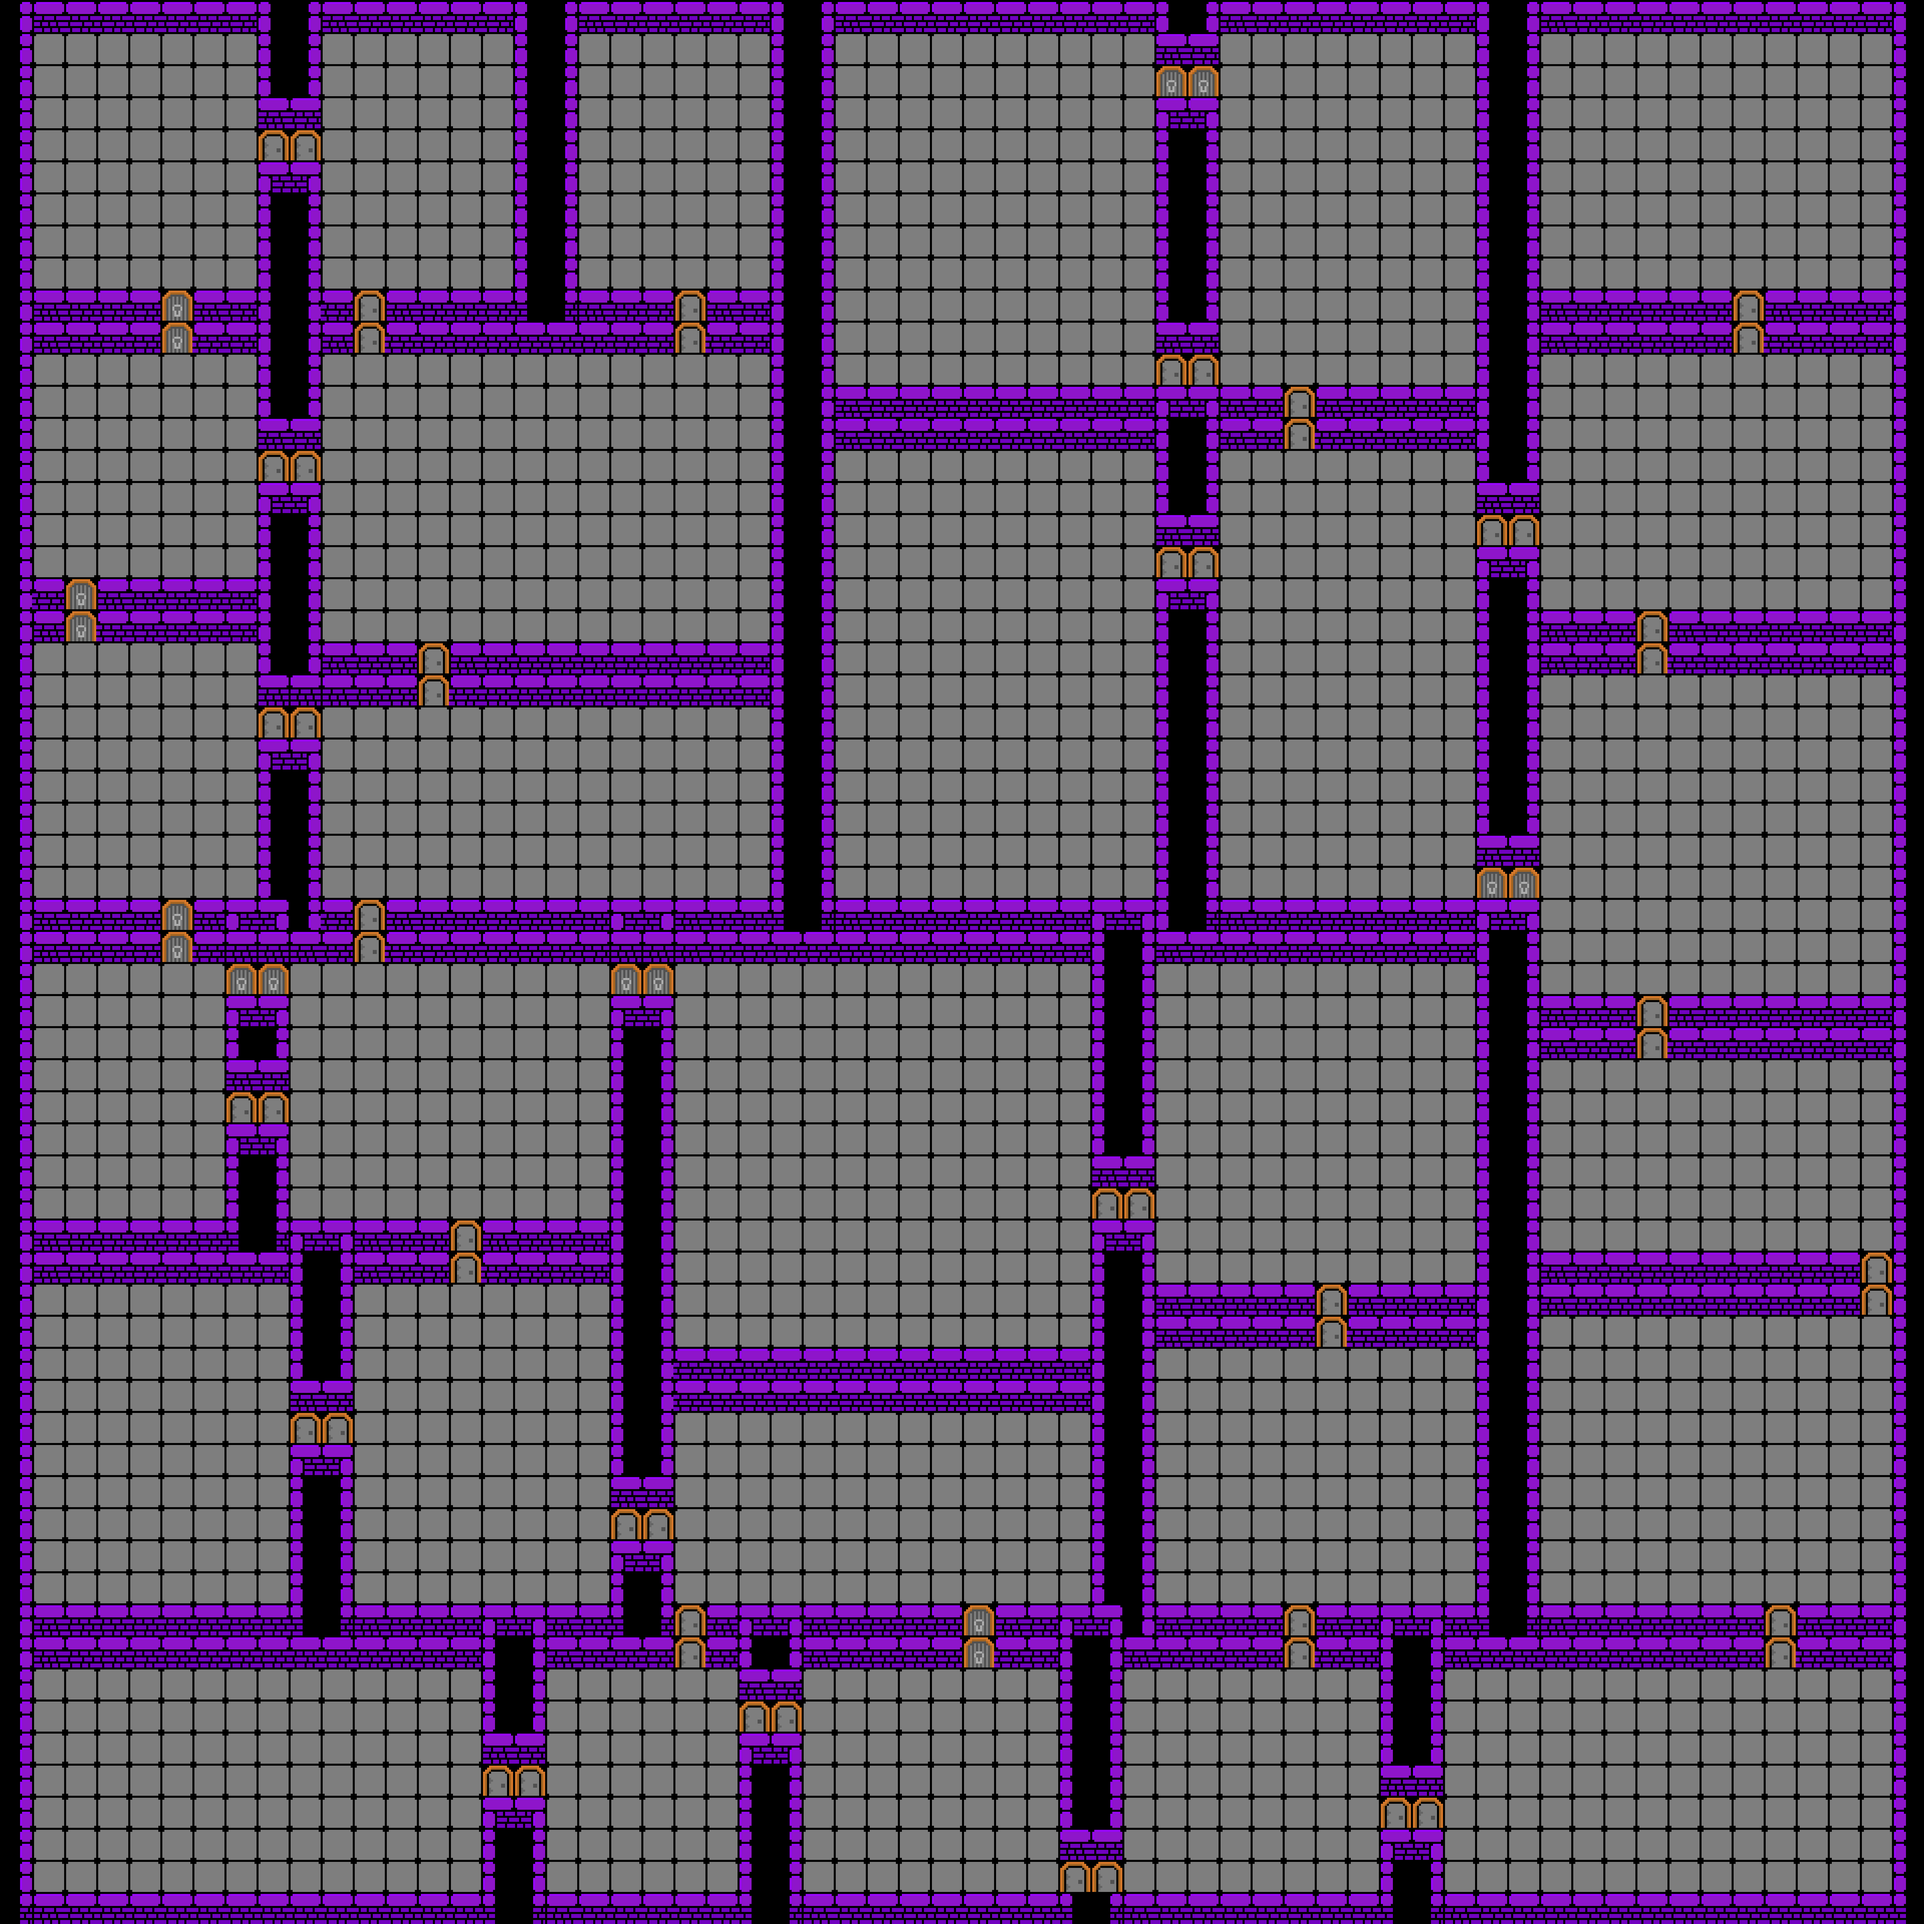
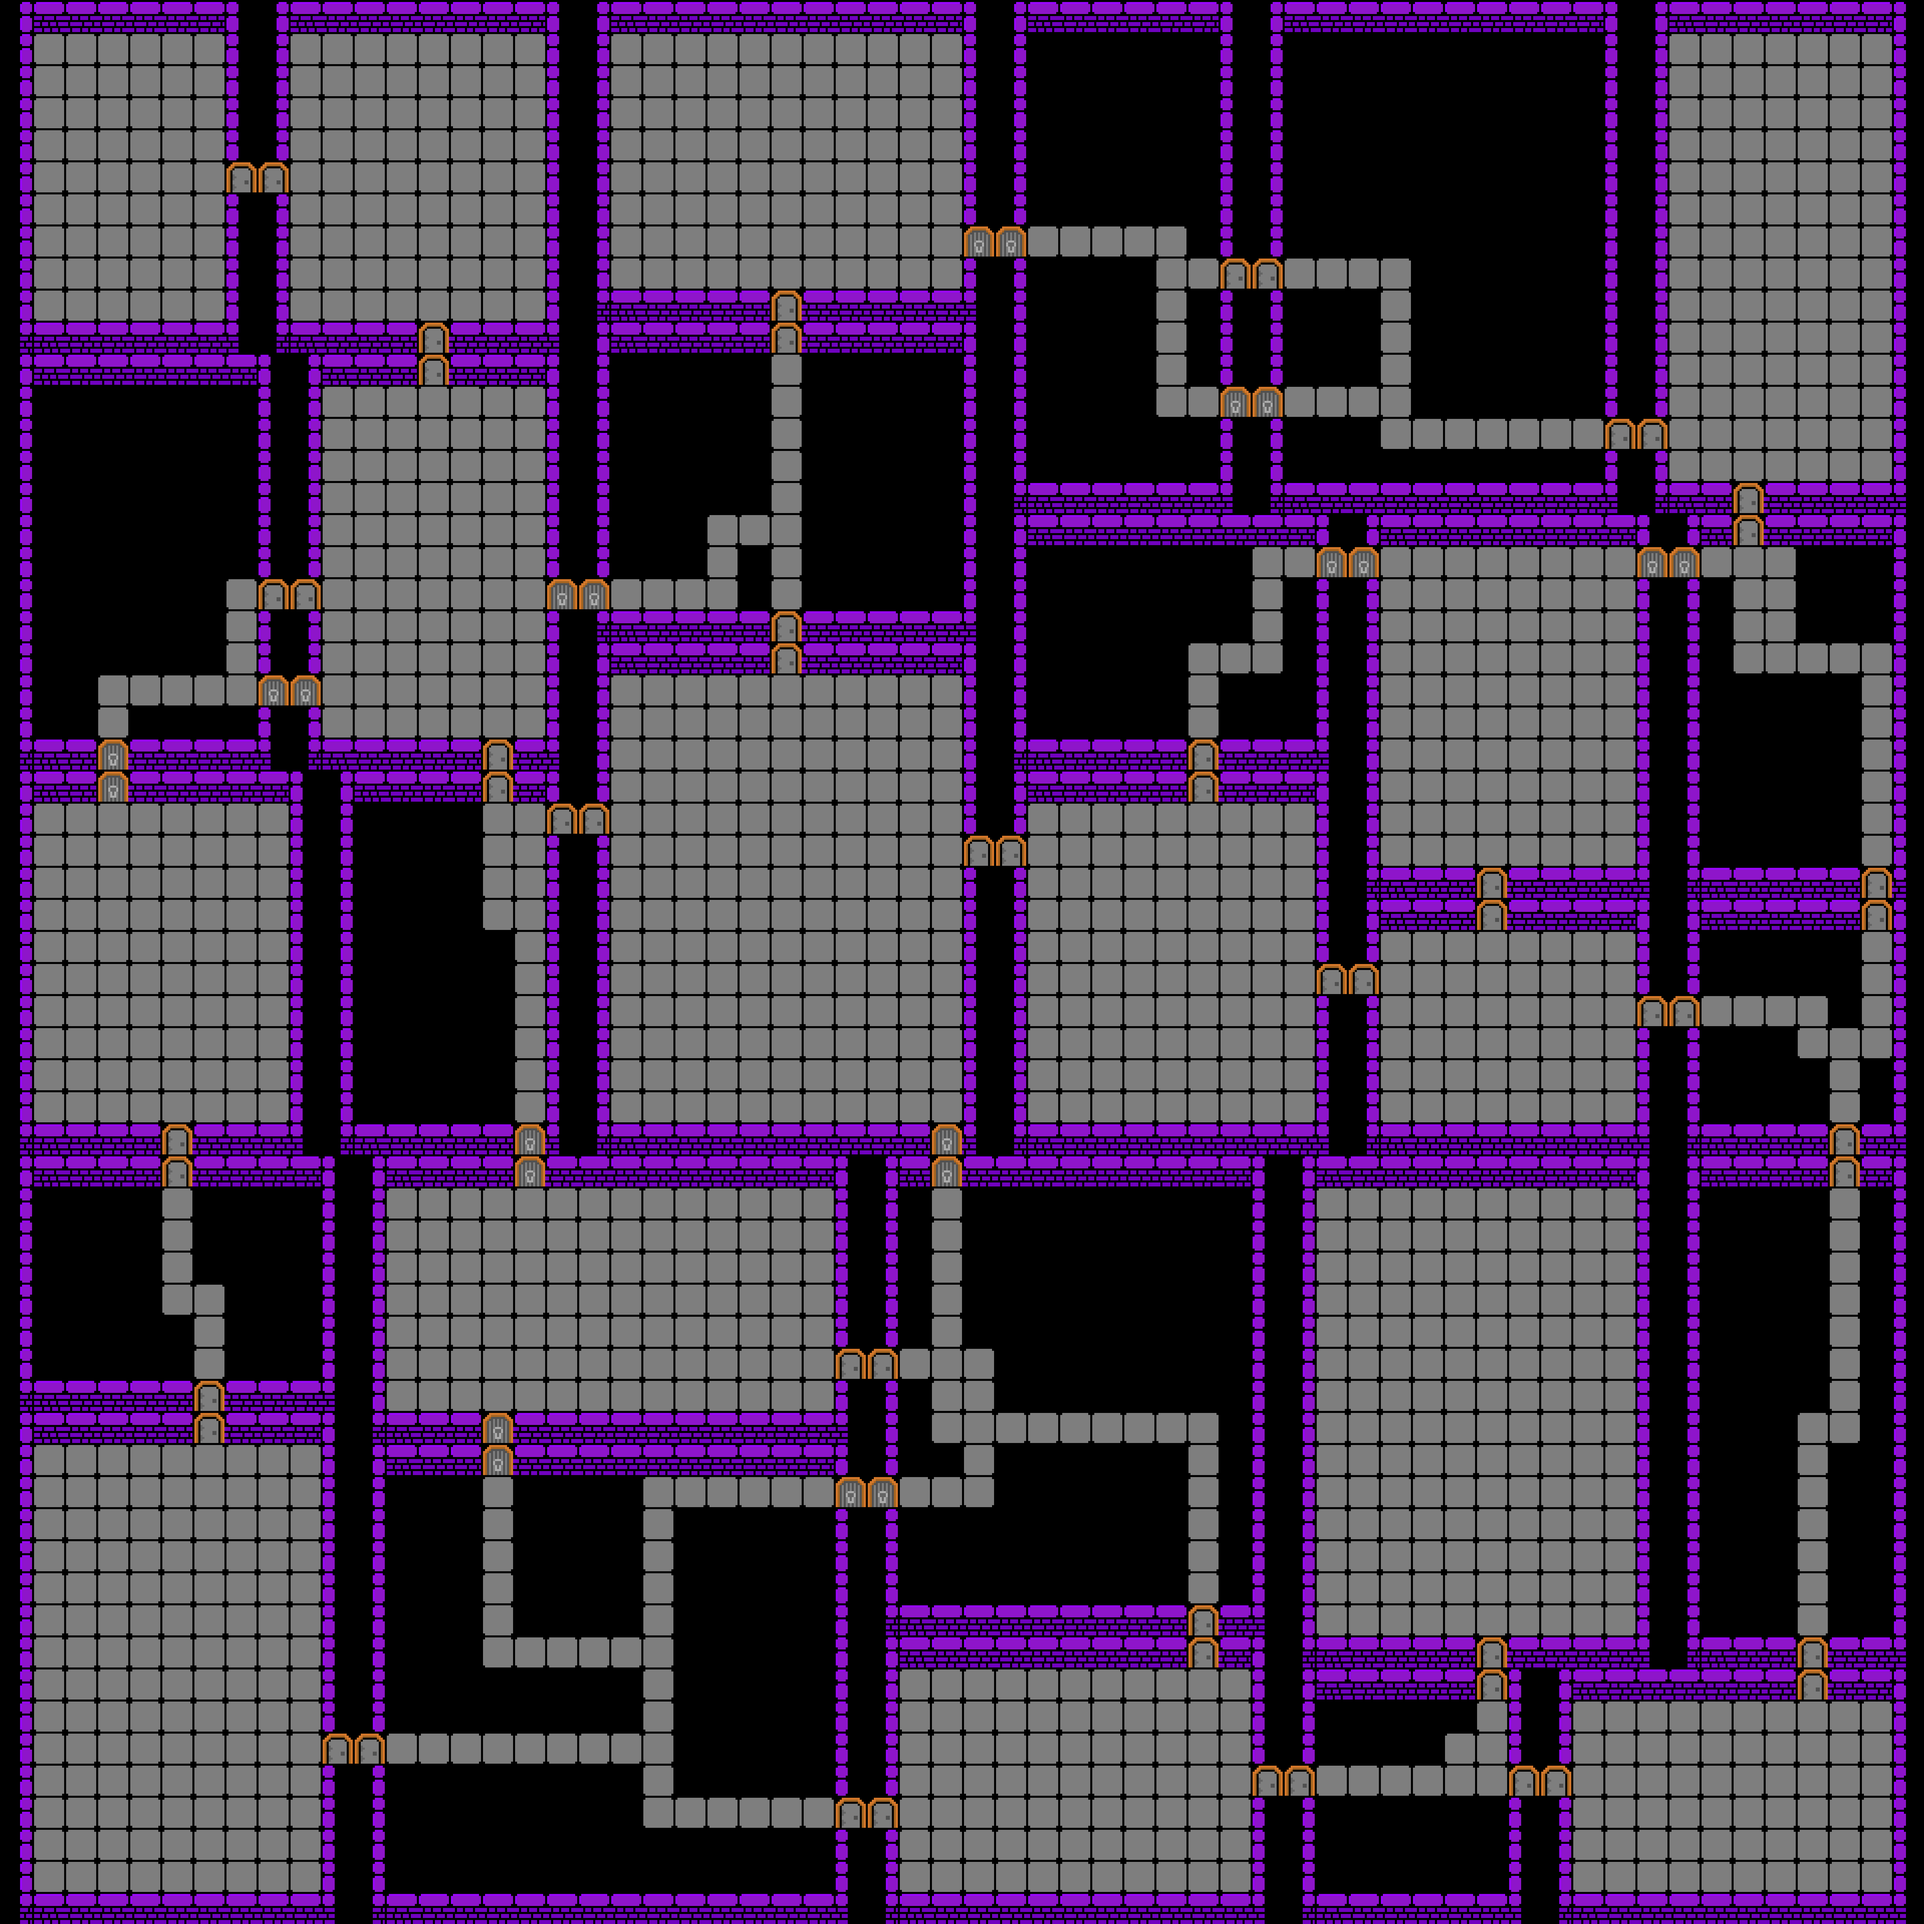
Added Corridor Generation
Changes to be committed:
modified:   Utility/room_gen/room_node.py
modified:   Utility/room_gen/tilearray.py
modified:   dungeon_image.png
modified:   image_gen.py
modified:   tilemap.txt

diff --git a/Utility/room_gen/tilearray.py b/Utility/room_gen/tilearray.py
@@ -1,6 +1,7 @@
 from Utility.CONSTANTS import *
 import random
 import heapq
+import math
 
 
 class tileArray:
@@ -31,9 +32,9 @@ class tileArray:
 
         self.corner_coord: list[tuple[int, int]] = []  # row, column
         self.wall_coords: dict[tuple[int, int], None] = {}  # row, column
-        self.corridor_rooms: list[tuple[int, int, int, int]] = (
-            []
-        )  # xmin, xmax, ymin,ymax
+        self.corridor_rooms: dict[
+            tuple[int, int, int, int], dict[str, list[tuple[int, int]]]
+        ] = {}  # xmin, xmax, ymin,ymax : row,col
         # Floor Tiles
 
         self.floor: str = " "
@@ -766,7 +767,83 @@ class tileArray:
                 self.tile_array[wall[0]][wall[1]] = tile
 
     def create_Corridor(self) -> None:
-        pass
+
+        for room in self.corridor_rooms:
+            x_min, x_max, y_min, y_max = room
+            for row in range(y_min + 1, y_max - 1):
+                for column in range(x_min + 1, x_max - 1):
+                    self.tile_array[row][column] = self.empty
+            # col_avg_coord: int = sum([x[1] for x in self.corridor_rooms[room]]) // len(
+            #     self.corridor_rooms[room]
+            # )
+            # row_avg_coord: int = sum([y[0] for y in self.corridor_rooms[room]]) // len(
+            #     self.corridor_rooms[room]
+            # )
+            print(
+                f"flat x: {[x[1] for l in self.corridor_rooms[room].values() for x in l]}"
+            )
+            print(
+                f"flat y: {[x[0] for l in self.corridor_rooms[room].values() for x in l]}"
+            )
+            flat_x: list[int] = [
+                x[1] for l in self.corridor_rooms[room].values() for x in l
+            ]
+            flat_y: list[int] = [
+                y[0] for l in self.corridor_rooms[room].values() for y in l
+            ]
+
+            x_center: int = math.ceil(sum(flat_x) / len(flat_x))
+            y_center: int = math.ceil(sum(flat_y) / len(flat_y))
+
+            self.tile_array[y_center][x_center] = self.floor
+
+            for direction in self.corridor_rooms[room]:
+                for door in self.corridor_rooms[room][direction]:
+                    lesser_x: bool = door[1] < x_center
+                    greater_x: bool = door[1] > x_center
+                    lesser_y: bool = door[0] < y_center
+                    greater_y: bool = door[0] > y_center
+
+                    door_row, door_col = door
+
+                    if direction == "N":
+                        for row in range(door_row + 1, y_center + 1):
+                            self.tile_array[row][door_col] = self.floor
+                        if lesser_x:
+                            for col in range(door_col + 1, x_center + 1):
+                                self.tile_array[y_center][col] = self.floor
+                        elif greater_x:
+                            for col in range(x_center, door_col):
+                                self.tile_array[y_center][col] = self.floor
+                    elif direction == "S":
+                        for row in range(y_center, door_row):
+                            self.tile_array[row][door_col] = self.floor
+                        if lesser_x:
+                            for col in range(door_col + 1, x_center + 1):
+                                self.tile_array[y_center][col] = self.floor
+                        elif greater_x:
+                            for col in range(x_center, door_col):
+                                self.tile_array[y_center][col] = self.floor
+                    elif direction == "E":
+                        for col in range(x_center, door_col):
+                            self.tile_array[door_row][col] = self.floor
+                        if lesser_y:
+                            for row in range(door_row + 1, y_center + 1):
+                                self.tile_array[row][x_center] = self.floor
+                        else:
+                            for row in range(y_center, door_row):
+                                self.tile_array[row][x_center] = self.floor
+                    elif direction == "W":
+                        for col in range(door_col + 1, x_center + 1):
+                            self.tile_array[door_row][col] = self.floor
+                        if lesser_y:
+                            for row in range(door_row + 1, y_center + 1):
+                                self.tile_array[row][x_center] = self.floor
+                        else:
+                            for row in range(y_center, door_row):
+                                self.tile_array[row][x_center] = self.floor
+            print(room, self.corridor_rooms[room])
+            # print(f"Wall Door Coords: North {}")
 
     # Pseudocode for handling the corridor cells.
     """

diff --git a/Utility/room_gen/room_node.py b/Utility/room_gen/room_node.py
@@ -27,7 +27,6 @@ class Node:
         self.corridor_margin: int = 2
 
         self.min_corridor_thickness: int = 3
-        self.is_corridor: bool = False
 
         self.corridor_chance = 0.5
 
@@ -136,47 +135,68 @@ class Node:
         if self.right:
             self.right.carve_Dungeon()
 
-    def mark_as_Corridor(self) -> None:
-        if self.is_Leaf():
+    def iterate_corridors(self) -> None:
 
-            door_list: list[str] = [
-                self.tile_array.door,
-                self.tile_array.locked,
-            ]
+        if self.right and self.left:
 
-            north_wall: list[str] = self.tile_array.tile_array[self.min_y][
-                self.min_x + 1 : self.max_x
-            ]
-            south_wall: list[str] = self.tile_array.tile_array[self.max_y - 1][
-                self.min_x + 1 : self.max_x
-            ]
-            east_wall: list[str] = [
-                self.tile_array.tile_array[y][self.max_x - 1]
-                for y in range(self.min_y + 1, self.max_y)
-            ]
-            west_wall: list[str] = [
-                self.tile_array.tile_array[y][self.min_x]
-                for y in range(self.min_y + 1, self.max_y)
-            ]
-            north_valid: bool = any([x in north_wall for x in door_list])
-            south_valid: bool = any([x in south_wall for x in door_list])
-            east_valid: bool = any([x in east_wall for x in door_list])
-            west_valid: bool = any([x in west_wall for x in door_list])
+            if self.right.is_Leaf() and self.left.is_Leaf():
+                if random.random() < 0.5:
+                    self.left.mark_as_Corridor()
+                else:
+                    self.right.mark_as_Corridor()
+                return
+            elif self.right.is_Leaf() and (not self.left.is_Leaf()):
+                if random.random() < 0.5:
+                    self.right.mark_as_Corridor()
 
-            if (
-                [north_valid, south_valid, east_valid, west_valid].count(True) >= 2
-            ) and random.random() > self.corridor_chance:
-                print("Successfully marked")
-                self.is_corridor = True
-                self.tile_array.corridor_rooms.append(
-                    (self.min_x, self.max_x, self.min_y, self.max_y)
-                )
-            return
+                self.left.iterate_corridors()
+                return
+
+            elif (not self.right.is_Leaf()) and (self.left.is_Leaf()):
+                self.left.mark_as_Corridor()
+
+                self.right.iterate_corridors()
+                return
 
         if self.left:
-            self.left.mark_as_Corridor()
+            self.left.iterate_corridors()
         if self.right:
-            self.right.mark_as_Corridor()
+            self.right.iterate_corridors()
+
+    def mark_as_Corridor(self) -> None:
+        door_list: list[str] = [
+            self.tile_array.door,
+            self.tile_array.locked,
+        ]
+
+        north_list: list[tuple[int, int]] = []
+        south_list: list[tuple[int, int]] = []
+        east_list: list[tuple[int, int]] = []
+        west_list: list[tuple[int, int]] = []
+
+        for col in range(self.min_x, self.max_x):
+            if self.tile_array.tile_array[self.min_y][col] in door_list:
+                north_list.append((self.min_y, col))
+            if self.tile_array.tile_array[self.max_y - 1][col] in door_list:
+                south_list.append((self.max_y - 1, col))
+
+        for row in range(self.min_y, self.max_y):
+            if self.tile_array.tile_array[row][self.max_x - 1] in door_list:
+                east_list.append((row, self.max_x - 1))
+            if self.tile_array.tile_array[row][self.min_x] in door_list:
+                west_list.append((row, self.min_x))
+
+        north_valid: bool = len(north_list) > 0
+        south_valid: bool = len(south_list) > 0
+        east_valid: bool = len(east_list) > 0
+        west_valid: bool = len(west_list) > 0
+
+        if [north_valid, south_valid, east_valid, west_valid].count(True) >= 2:
+            print("Successfully marked")
+            self.tile_array.corridor_rooms[
+                (self.min_x, self.max_x, self.min_y, self.max_y)
+            ] = {"N": north_list, "S": south_list, "E": east_list, "W": west_list}
+        return
 
     def trim_Rooms(self) -> None:
         if self.is_Leaf():

diff --git a/image_gen.py b/image_gen.py
@@ -17,14 +17,17 @@ def generate_Dungeon(width: int, height: int) -> None:
     root.tile_array.create_Doors(path)
 
     # Before we yaasify the dungeon, we should mark the corridors.
-    root.mark_as_Corridor()
+    root.iterate_corridors()
+
+    root.tile_array.create_Corridor()
 
     # for i in path:
     #     root.tile_array.tile_array[i[1]][i[0]] = root.tile_array.door
-    root.tile_array.clean_Walls()
-    root.tile_array.mesh_walls()
-    root.tile_array.create_inner_Corners()
-    root.tile_array.clean_Doors()
+    # root.tile_array.clean_Walls()
+
+    # root.tile_array.mesh_walls()
+    # root.tile_array.create_inner_Corners()
+    # root.tile_array.clean_Doors()
 
     # root.tile_array.cleanup_Dungeon()
     with open("tilemap.txt", "w") as f:
@@ -79,6 +82,7 @@ def generate_dungeon_image(tile_map: tileArray) -> None:
         ),
         tile_map.locked: Image.open("game_images/Dungeon_Tiles/final/Door_Locked.jpg"),
         tile_map.door: Image.open("game_images/Dungeon_Tiles/final/Door.jpg"),
+        tile_map.empty: Image.open("game_images/Dungeon_Tiles/final/Empty.jpg"),
     }
 
     width, height = tiles[tile_map.wall_North].size
